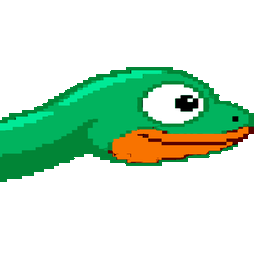
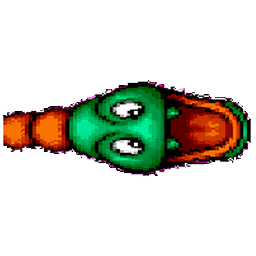
파이썬 옆보기 머리 — 새로 그리지 않고 원본을 돌려 쓴다
두 번 새로 그리게 했고 두 번 다 **다른 뱀**이 나왔다.
- 1차: 사실적인 비늘 · 노란 세로동공 (정면은 만화풍 · 흰 눈알)
- 2차: 화풍은 맞췄으나 얼굴 생김이 여전히 달랐다

생성 모델은 호출마다 캐릭터가 흔들린다. 눈·입술·색이 조금씩만
어긋나도 화면에서는 "딴 대가리" 로 읽힌다.

정면 머리(unit_python_s_out4)를 **그대로 90° 돌려** 쓴다.
- 주둥이가 오른쪽(진행 방향), 주황 목마디 2개가 왼쪽으로 트레일 —
  몸이 따라오는 쪽에 정확히 붙는다
- 그림 자체가 원본이라 눈·입술·초록 색조가 어긋날 수가 없다

- unit_python_e_cross1 을 회전본으로 교체, cross2/3 삭제
- _pyCross 를 배열에서 단일 Sprite 로, SetCrossFrame 제거
- ExchangeImporter 의 cross 화이트리스트를 1장으로 좁힌다

검증(스샷 rot1~3): p=0.30 / 0.55 / 0.75 세 시점 모두
unit_python_e_cross1 · 머리 색이 몸통과 동일(같은 원본에서 왔다)

Changed region(s): [[0.0, 0.25, 1.0, 0.7188]]

diff --git a/Assets/Scripts/Module/InGame/BattleDirector.PythonStage.cs b/Assets/Scripts/Module/InGame/BattleDirector.PythonStage.cs
@@ -381,8 +381,14 @@ namespace Game.Module.InGame
         private int _wallArch = -1;
         private Sprite[] _pyOut, _pyIn, _pyDie;
 
-        /// <summary>가로지를 때 쓰는 옆보기 머리 3장(입 다뭄 → 조금 → 활짝).</summary>
-        private Sprite[] _pyCross;
+        /// <summary>
+        /// 가로지를 때 쓰는 옆보기 머리.
+        ///
+        /// **정면 머리(`out4`)를 그대로 90° 돌려 만든 그림이다.** 새로 그리게 하면
+        /// 눈·입술·색이 조금씩 달라져 **다른 뱀**이 된다(2026-09-07 에 두 번 그랬다).
+        /// 돌리면 주둥이가 오른쪽, 주황 목마디가 왼쪽 — 몸이 따라오는 쪽으로 붙는다.
+        /// </summary>
+        private Sprite _pyCross;
 
         /// <summary>지금 머리가 나와 있는 아치. 스킬이 어디서 나가는지도 이 자리다.</summary>
         private int WallArch => _wallArch < 0 ? 0 : _wallArch;
@@ -406,8 +412,7 @@ namespace Game.Module.InGame
         private void EnsurePythonHeadFrames()
         {
             if (_pyOut != null) return;
-            _pyCross = new Sprite[3];
-            for (int i = 0; i < 3; i++) _pyCross[i] = UnitGet("python", $"e_cross{i + 1}");
+            _pyCross = UnitGet("python", "e_cross1");
             _pyOut = new Sprite[4];
             _pyIn = new Sprite[4];
             _pyDie = new Sprite[4];
@@ -708,7 +713,7 @@ namespace Game.Module.InGame
                 if (_shoveHead != null && _shoveHead.IsAlive)
                 {
                     _shoveHead.SetHidden(false);
-                    SetCrossFrame(_shoveHead, p);
+                    if (_pyCross != null) _shoveHead.SetSpriteOverride(_pyCross);
                     _shoveHead.Position = new Vector2(headX, _shoveY);
                 }
                 return;
@@ -918,18 +923,6 @@ namespace Game.Module.InGame
             SetHeadFrame(boss, _pyOut, Mathf.Clamp01(f) * 0.999f);
 
             if (_kickTimer <= 0f) { _kickTimer = 0f; SetHeadFrame(boss, _pyOut, 1f); }
-        }
-
-        /// <summary>
-        /// 지나가는 동안 입을 여닫는다. 한 번 지나가는 사이 두 번 문다 —
-        /// 그림이 세 장뿐이라 여닫이를 반복해야 살아 있는 것으로 보인다.
-        /// </summary>
-        private void SetCrossFrame(Unit boss, float progress)
-        {
-            if (_pyCross == null || _pyCross[0] == null) return;
-            float cycle = Mathf.Repeat(progress * 2f, 1f);          // 두 번 반복
-            int i = cycle < 0.34f ? 0 : cycle < 0.67f ? 1 : 2;      // 다뭄 → 조금 → 활짝
-            if (_pyCross[i] != null) boss.SetSpriteOverride(_pyCross[i]);
         }
 
         private void SetHeadFrame(Unit boss, Sprite[] frames, float t)

diff --git a/Assets/Scripts/Editor/ExchangeImporter.cs b/Assets/Scripts/Editor/ExchangeImporter.cs
@@ -193,10 +193,9 @@ namespace Game.EditorTools
                  || name == $"unit_python_s_in{i}"
                  || name == $"unit_python_s_die{i}") return true;
 
-            // 가로지를 때 쓰는 **옆보기 머리**. 정면 한 장으로는 진행 방향을
-            // 볼 수 없어 따로 받았다(옛 옆모습 시트와 이름이 겹치지 않는다).
-            for (int i = 1; i <= 4; i++)
-                if (name == $"unit_python_e_cross{i}") return true;
+            // 가로지를 때 쓰는 **옆보기 머리**. 정면 그림을 90° 돌려 만든 것이라
+            // 그림 자체는 원본과 같다(옛 옆모습 시트와 이름이 겹치지 않는다).
+            if (name == "unit_python_e_cross1") return true;
 
             return false;
         }
